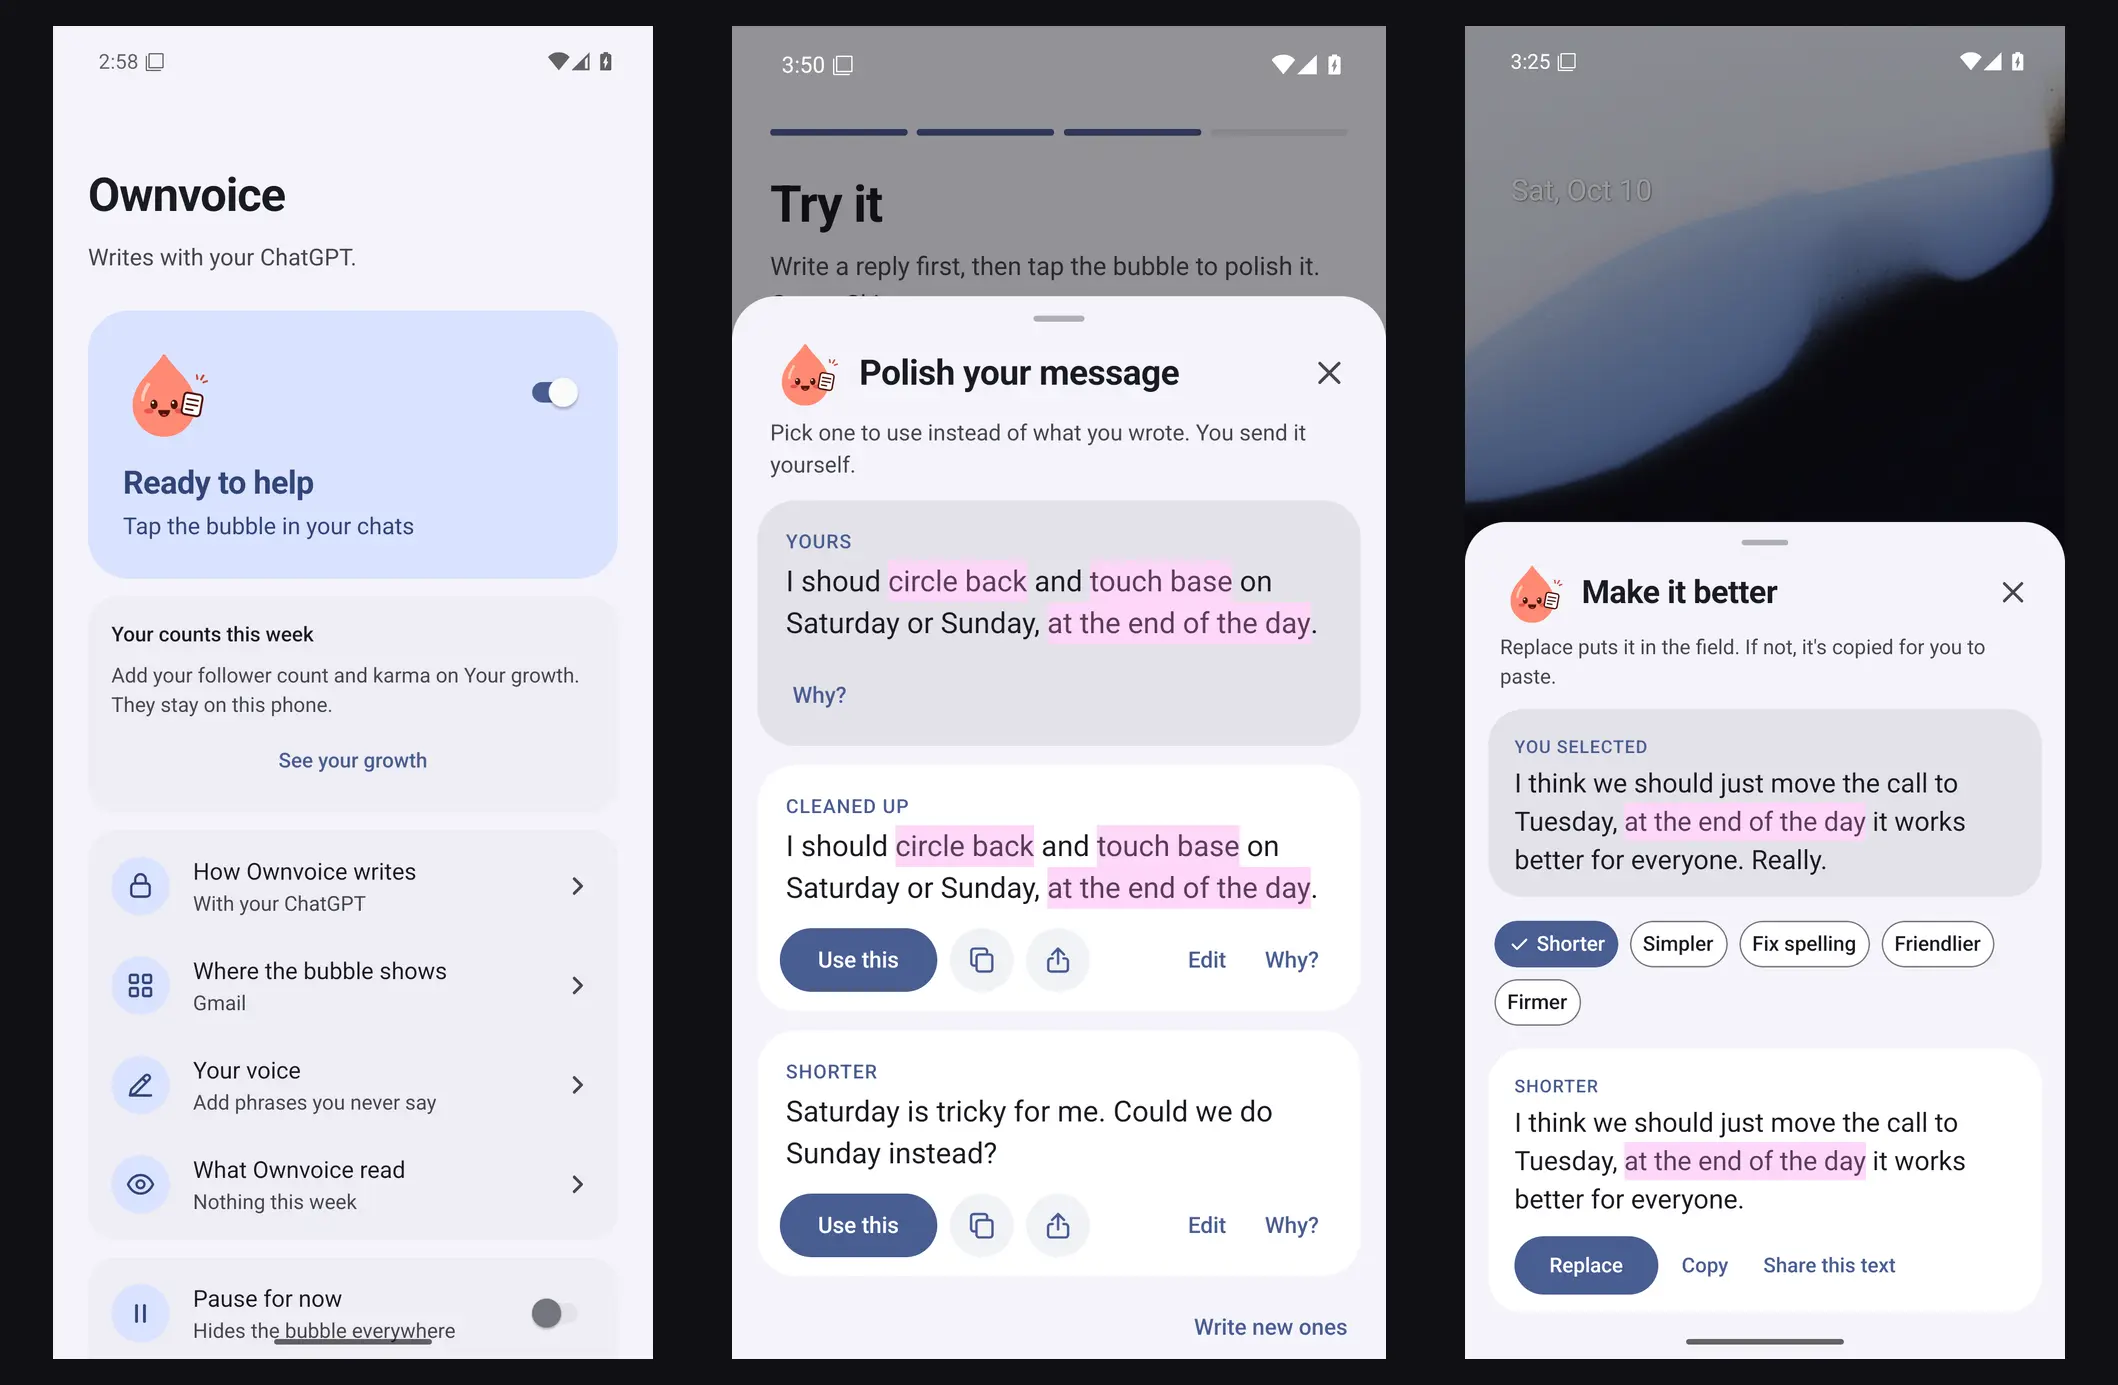
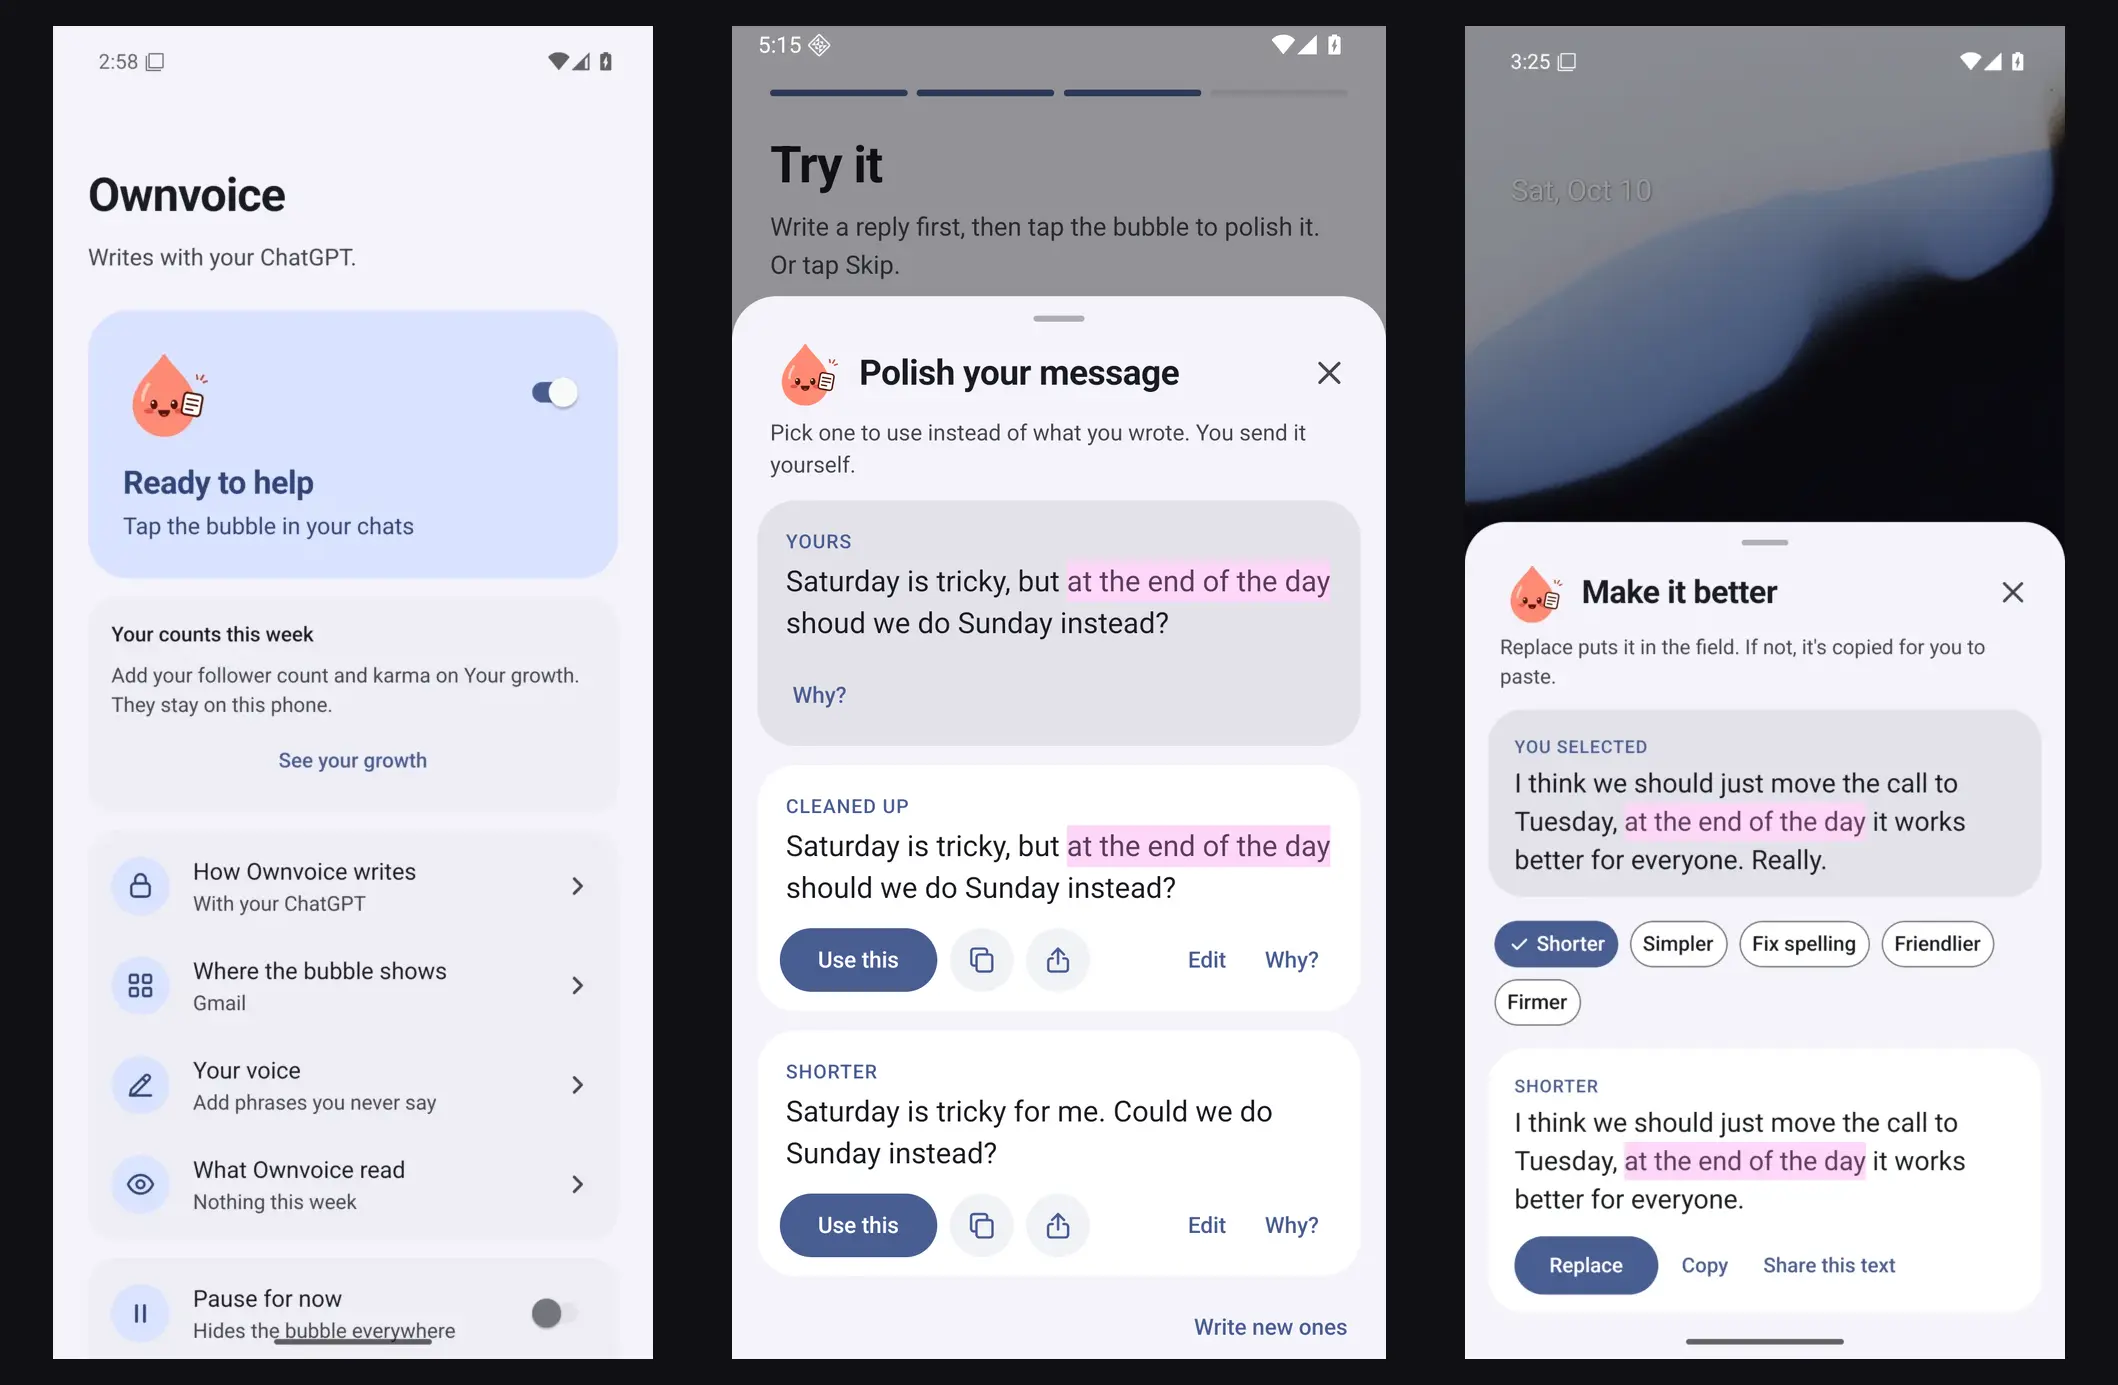
docs: recapture the polish panel so the shown draft follows the input
The practice shot showed a Shorter card ("Saturday is tricky for me. Could we
do Sunday instead?") that declined Saturday although the typed reply offered
both days - a canned test-writer answer that changed the meaning. Type a reply
the canned version is a faithful rewrite of ("Saturday is tricky, but at the
end of the day should we do Sunday instead?") so the Shorter card follows from
the input, and rebuild hero.webp from the new shot.

diff --git a/README.md b/README.md
@@ -46,7 +46,7 @@ On X, LinkedIn and Reddit, the panel names the platform beside its heading. A ne
 Already typed something? The same tap shows your text with the stock phrases marked, then a few better versions of it. **Use this** swaps your text for one of them. **Cleaned up** fixes clear spelling slips, clear missing apostrophes such as “dont”, accidental repeats of “the”, “a” or “an” starting with a lowercase copy, and “Its” before “a”, “an” or “the”. For example, “Its a good plan, I shoud be there by the the evening.” becomes “It's a good plan, I should be there by the evening.” This card uses only your own text and those clear fixes; the writer supplies the other versions. Other suspected slips appear under **Check these** when spelling checks are on; each has its own **Fix**. When no different version is found, Ownvoice keeps your text and asks you to read it over before sending. That does not approve the writing.
 
 <p align="center">
-  <img src="docs/readme/polish.webp" alt="Polish your message over the practice chat: the typed reply with the canned phrases 'circle back', 'touch base' and 'at the end of the day' marked, then two labeled versions, Cleaned up (which turns 'shoud' into 'should') and Shorter, each with Use this" width="300" />
+  <img src="docs/readme/polish.webp" alt="Polish your message over the practice chat: the typed reply 'Saturday is tricky, but at the end of the day should we do Sunday instead?' with 'at the end of the day' marked, then two labeled versions, Cleaned up (which turns 'shoud' into 'should') and Shorter, each with Use this" width="300" />
 </p>
 
 ### Start a post from a blank composer
